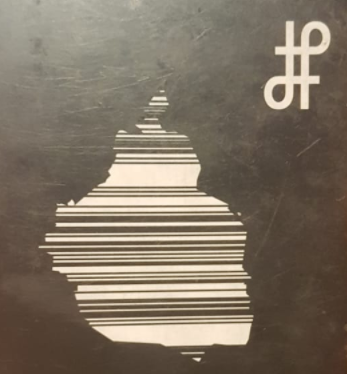
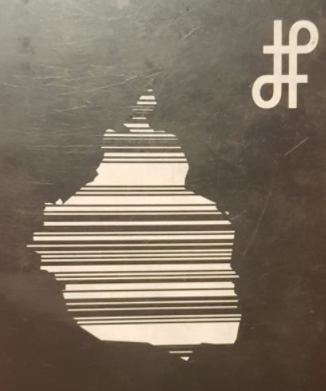
Se pueden detectar 3 disenos de tarjetas

Changed region(s): [[0.092, 0.2353, 0.7362, 0.9706], [0.7362, 0.0294, 0.9816, 0.2941], [0.3988, 0.2059, 0.4294, 0.2353]]

diff --git a/app/src/main/java/com/example/engel/seccion8/MainActivity.kt b/app/src/main/java/com/example/engel/seccion8/MainActivity.kt
@@ -53,6 +53,7 @@ class MainActivity : AppCompatActivity() {
 
         }
 
+
         fragment = getSupportFragmentManager().findFragmentById(R.id.sceneform_fragment) as CustomArFragment
         fragment.getPlaneDiscoveryController().hide()
         fragment.getArSceneView().getScene().setOnUpdateListener(this::onUpdateFrame)
@@ -64,7 +65,7 @@ class MainActivity : AppCompatActivity() {
         location.permisoLocation {
             location.onLocationUpdate {
 
-            main()
+                main()
 
             }
         }
@@ -140,19 +141,17 @@ class MainActivity : AppCompatActivity() {
 
     fun setupAugmentedImageDb(config: Config, session: Session): Boolean {
         val augmentedImageDatabase: AugmentedImageDatabase
-
-        val bitmap = loadAugmentedImage() ?: return false
-
         augmentedImageDatabase = AugmentedImageDatabase(session)
-        augmentedImageDatabase.addImage("metrobus", bitmap!!)
-
+        augmentedImageDatabase.addImage("metrobus-1", loadAugmentedImage("metrobus-1.png") ?: return false)
+        augmentedImageDatabase.addImage("metrobus-2", loadAugmentedImage("metrobus-2.png") ?: return false)
+        augmentedImageDatabase.addImage("metrobus-3", loadAugmentedImage("metrobus-3.PNG") ?: return false)
         config.setAugmentedImageDatabase(augmentedImageDatabase)
         return true
     }
 
-    private fun loadAugmentedImage(): Bitmap? {
+    private fun loadAugmentedImage(picture:String): Bitmap? {
         try {
-            assets.open("metrobus.png").use { `is` -> return BitmapFactory.decodeStream(`is`) }
+            assets.open(picture).use { `is` -> return BitmapFactory.decodeStream(`is`) }
         } catch (e: IOException) {
             Log.e("ImageLoad", "IO Exception while loading", e)
         }
@@ -170,8 +169,8 @@ class MainActivity : AppCompatActivity() {
         for (augmentedImage in augmentedImages) {
             if (augmentedImage.getTrackingState() == TrackingState.TRACKING) {
 
-
-                if (augmentedImage.getName() == "metrobus" && shouldAddModel) {
+                // ( augmentedImage.getName() == "metrobus" || augmentedImage.getName() == "metrobus-3" ) &&
+                if ( shouldAddModel) {
                     if (index >= lugarMasCercano.sitiosInteres.size) index=0
                     if (lugarMasCercano.isOnPlace){
                         anchor = augmentedImage.createAnchor(augmentedImage.getCenterPose())
@@ -198,24 +197,22 @@ class MainActivity : AppCompatActivity() {
             location.onLocationUpdate { main() }
         }
         fragment.arSceneView.resume()
+        fragment.getPlaneDiscoveryController().hide()
 
 
     }
-
-
-
-
-
-
-
-
 
     override fun onStop() {
         super.onStop()
 
         location.detenerActualizacionUbicacion()
-        fragment.arSceneView.pause()
 
+
+    }
+
+    override fun onPause() {
+        super.onPause()
+        fragment.arSceneView.pause()
     }
 
 
